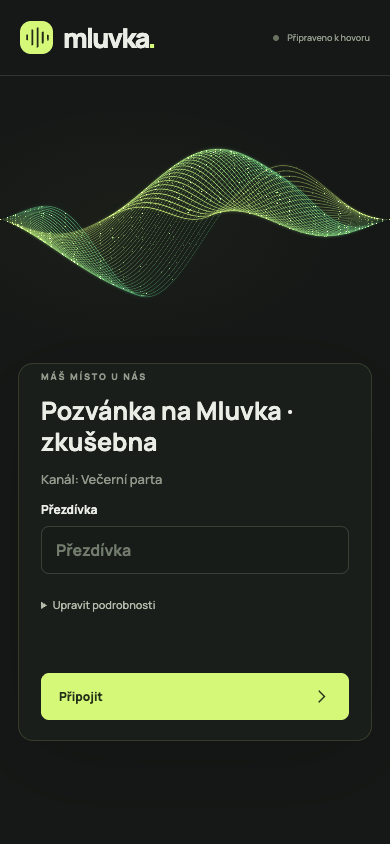
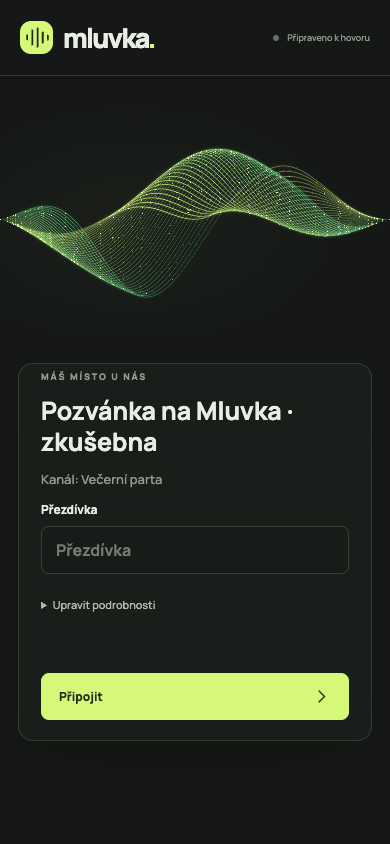
Mluvka - úplné ověření 204 E2E kroků a závěrečné doklady

Changed region(s): [[0.2154, 0.1848, 0.8615, 0.3697]]

diff --git a/docs/overeni-mobil-1298-3.md b/docs/overeni-mobil-1298-3.md
@@ -1,60 +1,83 @@
 # Navázání přejímky #1298 (3)
 
-Východisko: `8027840`; práce pouze ve worktree `mluvka-mobil`, větev `mobil`.
-Cílený flood na novém release backendu prošel 6 kroky; celé E2E právě probíhá. Historické výsledky k východisku jsou v
-[overeni-mobil-1298.md](overeni-mobil-1298.md).
+Hotovo podle automatických podmínek: **204/204 E2E kroků**, Opus 102 a PCM 102,
+oba procesy exit 0, `complete: true`, `errors: []`. Východisko `8027840`, větev `mobil`.
 
-## Oprava příčin
+## Co se změnilo a proč
 
 - Společný `blocked_until` blokoval příkazy a kontrola v živé TS smyčce ukončovala
-  všechny relace po floodu nového handshake. Nyní `connects_blocked_until` omezuje
-  pouze připojování; živé relace pokračují, včetně čistého ručního odpojení.
-  Odmítnutý příkaz má nadále vlastní krátké zpomalení a opakování.
-- Okno a dávku lze nastavit přes `TS_CONNECT_WINDOW_MS` a `TS_CONNECT_BURST`.
-  Výchozí hodnoty zůstaly 45000 ms a 3. Rozpočet uchová i historii delšího
-  nastaveného okna. Unit test pokrývá odlišné okno/dávku a povolené příkazy během
-  pauzy připojování. Čekání kratší než 300 ms nezobrazuje hlášku fronty;
-  za ochranné pauzy se zbývající čas ve frontě aktualizuje každou sekundu.
-- Mobilní výstup vybírá výhradně `pointer: coarse`. Samotné dotykové body
-  desktop nepřesměrují přes MediaStream. Při odmítnutém `play()` nebo zastaveném
-  čase přehrávače přes přicházející hlas připojí záložní AudioContext destination.
-  MediaStream zůstává připravený, jeho přehrávač je během fallbacku ztlumený;
-  po obnovení se přímá cesta odpojí a přehrávač odtlumí. Výběr výstupu platí
-  pro obě cesty. Tichá místnost sama o sobě fallback nespustí.
-- Efekt audio session sledoval `connected` a jeho cleanup při výpadku nastavil
-  `auto`. Nyní sleduje záměr zůstat v hovoru; reconnect nepřeruší
-  `play-and-record`. Ukončení hovoru session uvolní přes `audio.close()`.
+  relace po floodu cizího handshake. `connects_blocked_until` nyní omezuje pouze
+  připojování; živé relace pokračují, včetně čistého ručního odpojení.
+  Odmítnutý příkaz má vlastní krátké zpomalení a opakování.
+  Doklad: `src/session.rs:341`, `src/session.rs:364`, nativní E2E níže.
+- `TS_CONNECT_WINDOW_MS` a `TS_CONNECT_BURST` mají zachované výchozí hodnoty
+  45000 ms a 3. Rozpočet uchová historii i při nastavení delšího okna.
+  Unit test pokrývá jiné okno/dávku a povolené příkazy během pauzy připojování.
+  Hláška fronty čeká 300 ms, ochranný odpočet se potom aktualizuje každou sekundu.
+  Doklad: `src/session.rs:314`, `src/session.rs:451`, `src/session.rs:503`.
+- Výstup přes `<audio>` vybírá výhradně `pointer: coarse`. Samotné dotykové body
+  desktop nepřesměrují. Odmítnuté `play()` nebo zastavené hodiny přehrávače přes
+  přicházející hlas aktivují přímou AudioContext destination. Přehrávač je během
+  fallbacku ztlumený; po obnovení se přímá cesta odpojí a přehrávač odtlumí.
+  Výběr zařízení platí pro obě cesty. Tichá místnost sama fallback nespustí.
+  Doklad: `frontend/src/audio.ts:163`, `frontend/src/audio.ts:570`, E2E obou kodeků.
+- Cleanup efektu podle `connected` při výpadku nastavil `audioSession=auto`.
+  Efekt nyní sleduje záměr zůstat v hovoru; reconnect drží `play-and-record`.
+  Ukončení hovoru session uvolní přes `audio.close()`.
+  Doklad: `frontend/src/App.tsx:975`; E2E zaznamenává všechny změny typu session.
+- Tři staré 40s připojovací timeouty v audio E2E byly kratší než platné 45s okno.
+  Jsou sjednocené na 90 s. Zvukové prahy a kontrola živosti v popředí se neměnily.
 
-## Dosavadní doklady
+## Ověření
 
-E2E runner sám backend nesestavuje. Před novým ověřením byl explicitně
-spuštěn `cargo build --release` (exit 0); binárka obsahuje novou flood hlášku
-a je novější než `src/session.rs`.
-
-
-- `E2E_REGRESSION_ONLY=1 E2E_FLOOD_ONLY=1 E2E_CODEC=opus node e2e/run.mjs`
-  pod TS3 zámkem na portech 3104/9104/10104/30104: **6/6**, exit 0.
-  Nativní handshake flood zachoval WS i `clid` obou živých klientů; po celou
-  pauzu se doručoval chat a přibývaly přehrané hlasové rámce s kladným RMS.
-  Další klient čekal na stejném WS s měnícím se odpočtem a po pauze se připojil.
-- `cargo test`: 14/14, `cargo clippy --all-targets -- -D warnings`: exit 0.
+- `cargo test`: **14/14**; `cargo clippy --all-targets -- -D warnings`: exit 0.
 - `npm run typecheck`, `npm run build`: exit 0.
-- Nové frontendové kontroly v cíleném běhu prošly: desktop s dotykem a jemným
-  ukazatelem, odmítnuté `play()`, zastavený přehrávač, obnova po gestu,
-  reconnect bez `audioSession=auto`. Backend tohoto pokusu ještě vycházel
-  ze starého release, takže výsledek nelze vydávat za doklad opravy handshake floodu.
+- `cargo build --release`: exit 0. Runner backend sám nesestavuje; před platným
+  E2E byla binárka explicitně sestavená a ověřená jako novější než `session.rs`.
 - `node --test e2e/reconnect.test.mjs`: 1/1; `codecRecoveryCheck`: exit 0.
-- `prohlizec kontrola http://127.0.0.1:3114 tmp-ts3/kontrola-1298-3 --zaklad docs/kontrola-1298`:
-  exit 0, bez JS chyb a vodorovného přesahu, strom +0/−0. Rozdíl úvodní vlny
-  je časová animace. Souhrn je v [kontrola-1298-3/souhrn.json](kontrola-1298-3/souhrn.json),
-  vizuálně prohlédnutý [mobilní snímek](kontrola-1298-3/mobil.png).
+- Cílený `E2E_REGRESSION_ONLY=1 E2E_FLOOD_ONLY=1 E2E_CODEC=opus node e2e/run.mjs`:
+  **6/6**, exit 0, pod zámkem TS3.
+- Celé `E2E_PORT=3104 TS3_VOICE_PORT=9104 TS3_QUERY_PORT=10104 TS3_FT_PORT=30104 npm run e2e`
+  pod zámkem `/Users/paveldvorak/.prace/mluvka-ts3.lock`: **204/204**, exit 0.
+  Strojový výsledek: [e2e-vysledky.json](e2e-vysledky.json).
 
-## Fyzický telefon
+| Kontrola | Opus | PCM |
+| --- | ---: | ---: |
+| Přijaté/dekódované rámce za 60 s na pozadí | 3002 | 3002 |
+| Návrat po zmrazení včetně celé 5s milosti (ms) | 5016 | 5027 |
+| Návrat čekajících po handshake pauze (ms) | 123203 | 123170 |
 
-Chromium emulace neověří audiosession iOS při zamčení, systémovém hovoru nebo
-uspání PWA, skutečný reproduktor/Bluetooth a přepínání vybraného výstupu.
+Při nativním handshake floodu `wire_code=0x0d01`, normalizovaném `0x0d03`,
+měli Flood-0/1 po celou pauzu stejný WS i `clid`, doručovali chat a přehrávali hlas
+s kladným RMS a rostoucím počtem rámců. Další klient čekal na stejném WS s měnícím
+se odpočtem; po pauze se připojil. Na výchozím antifloodu šestice v obou kodecích
+odeslala přesně 6× `channelsubscribeall`, 6× `clientmove`, 6× `sendtextmessage`.
+Opakovaný stejný mute nepřidal příkaz. Běžné připojení nadále potřebuje po
+`clientinit` jediný aplikační příkaz `channelsubscribeall`; předchozí srovnání
+je v [historickém dokladu](overeni-mobil-1298.md).
+
+`prohlizec kontrola http://127.0.0.1:3114 tmp-ts3/kontrola-1298-3 --zaklad docs/kontrola-1298`:
+exit 0, bez JS chyb a vodorovného přesahu, strom +0/−0. Rozdíl úvodní vlny je animace.
+[Souhrn](kontrola-1298-3/souhrn.json), vizuálně prohlédnutý [mobilní snímek](kontrola-1298-3/mobil.png).
+
+## Co vyžaduje fyzický telefon
+
+Chromium emulace neověří nativní audio session iOS při zamčení, systémovém hovoru
+nebo uspání PWA, skutečný reproduktor/Bluetooth a přepínání vybraného výstupu.
 Detekce zastaveného přehrávače sleduje jeho hodiny a signál před výstupem;
 neumí měřit fyzický zvuk reproduktoru při jinak běžících hodinách.
-Na Androidu Chrome/PWA a iOS Safari/PWA je proto třeba ověřit slyšitelný hlas
-při zamčení a během reconnectu, fallback po poruše přehrávání a jeho návrat,
-i přechod `audioSession` na `auto` po ručním odpojení.
+Na Androidu Chrome/PWA a iOS Safari/PWA zbývá ověřit slyšitelný hlas při zamčení
+a během reconnectu, fallback a jeho návrat i `audioSession=auto` po ručním odpojení.
+V E2E bylo rozhraní `audioSession` podvržené pro kontrolu přechodů.
+
+## Lokální commity od `8027840`
+
+| Commit | Změna |
+| --- | --- |
+| `703a9a3` | Handshake flood omezuje nová připojení, živé relace zůstávají; konfigurovatelné okno a pozdější hláška fronty. |
+| `a0e971a` | Coarse výstup, přímý fallback a zachovaná audio session při reconnectu. |
+| `d1ecbe7` | Nativní regrese hlasu a odpočtu během handshake pauzy. |
+| `b2afb8d` | Obnova odmítnutého přehrávače v testu skutečným gestem. |
+| `cd04c49` | Průběžné doklady výstupu a audio session. |
+| `2e2b0c6` | Doklad úspěšného nativního flood testu na novém backendu. |
+| `b1aeba5` | Připojovací E2E timeout respektuje celé sdílené okno. |

diff --git a/docs/overeni-mobil-1298.md b/docs/overeni-mobil-1298.md
@@ -1,5 +1,9 @@
 # Mobil: dokončení #1289 a navázání #1298
 
+> Historický doklad ke commitu `8027840`. Aktuální chování handshake pauzy a výsledky
+> navazující přejímky jsou v [overeni-mobil-1298-3.md](overeni-mobil-1298-3.md).
+> Soubor `e2e-vysledky.json` už obsahuje tento novější běh.
+
 Stav: hotovo podle automatických podmínek. Úplné E2E prošlo 100 kroky pro Opus a 100 pro PCM; oba procesy skončily kódem 0.
 
 ## Zjištěné příčiny
